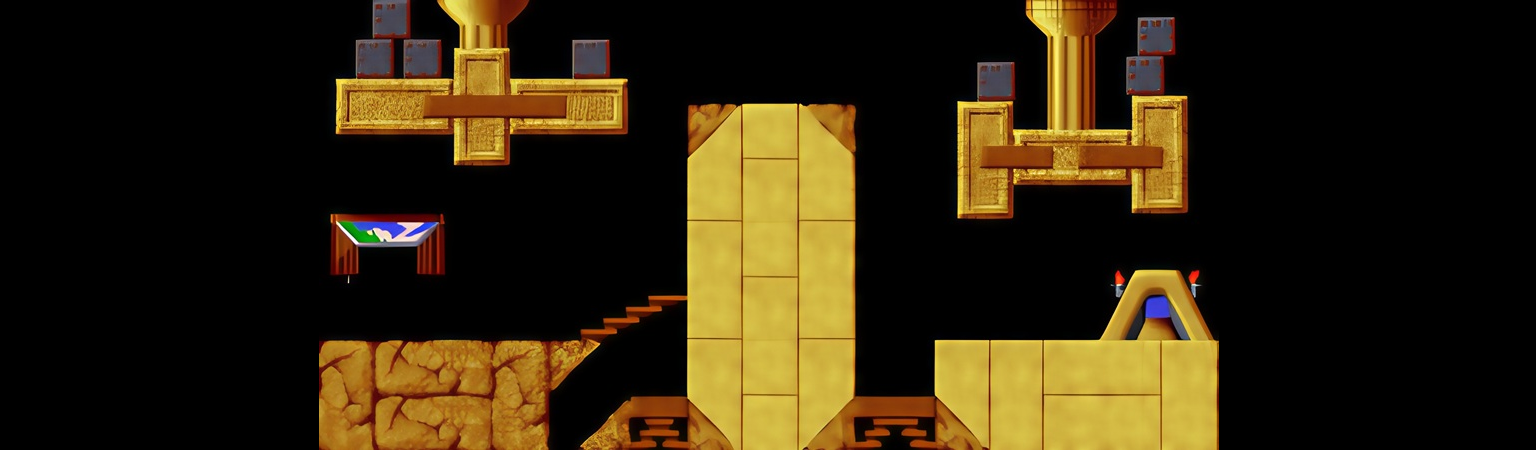
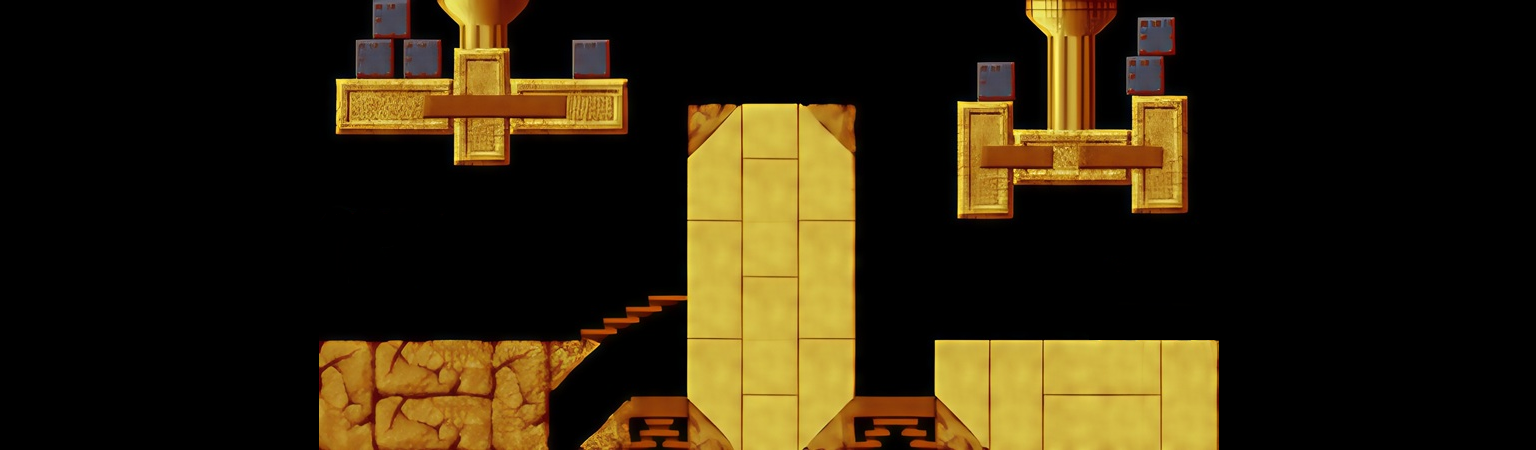
fix mapView

Changed region(s): [[0.1875, 0.4667, 0.3125, 0.6222], [0.7188, 0.5911, 0.8125, 0.7778]]

diff --git a/app/src/main/java/Proyecto/games/Lemmings_game/View/MinimapView.java b/app/src/main/java/Proyecto/games/Lemmings_game/View/MinimapView.java
@@ -12,20 +12,24 @@ public class MinimapView {
     int x, y, width, height;
     BufferedImage minimapImage;
 
-    public MinimapView(int x, int y, int width, int height, int level) {
-        this.x = x;
-        this.y = y;
-        this.width = width;
-        this.height = height;
-
+    public MinimapView(int baseX, int baseY, int baseWidth, int baseHeight, int level, int screenWidth, int screenHeight) {
+        // Resolución base (la que usaste para calcular 480, 480, 250, 100)
+        int baseScreenWidth = 1366;
+        int baseScreenHeight = 768;
+    
+        // Escalar proporcionalmente
+        this.x = baseX * screenWidth / baseScreenWidth;
+        this.y = baseY * screenHeight / baseScreenHeight;
+        this.width = baseWidth * screenWidth / baseScreenWidth;
+        this.height = baseHeight * screenHeight / baseScreenHeight;
+    
         try {
             minimapImage = ImageIO.read(getClass().getResourceAsStream("/map" + (4 + level) + ".png"));
         } catch (IOException e) {
             e.printStackTrace();
         }
-
-        //this.minimapImage = minimapImage;
     }
+    
 
     public void drawMinimap(Graphics2D g) {
         // Marco marrón oscuro para el minimapa

diff --git a/app/src/main/java/Proyecto/games/Lemmings_game/Lemmings.java b/app/src/main/java/Proyecto/games/Lemmings_game/Lemmings.java
@@ -26,7 +26,7 @@ public class Lemmings extends JGame {
 
     ButtonController buttonController;
 
-    private int currentLevel = 0;
+    private int currentLevel = 2;
 
     private List<MapModel> mapModels  = new ArrayList<>();
     private List<MapView> mapViews = new ArrayList<>();
@@ -65,8 +65,8 @@ public class Lemmings extends JGame {
             MapModel thirdLevelMapModel = new MapModel(3,650,350,0);
 
             MapView firstLevelMapView = new MapView(firstLevelMapModel, new SpawnerView(690, 70), new ExitView(1020, 300), 0, 0);
-            MapView secondLevelMapView = new MapView(secondLevelMapModel, new SpawnerView(230, 150), new ExitView(230, 150), 430, 0);
-            MapView thirdLevelMapView = new MapView(thirdLevelMapModel, new SpawnerView(230, 150), new ExitView(230, 150), 430, 0);
+            MapView secondLevelMapView = new MapView(secondLevelMapModel, new SpawnerView(230, 150), new ExitView(230, 150), 0, 0);
+            MapView thirdLevelMapView = new MapView(thirdLevelMapModel, new SpawnerView(410, 200), new ExitView(1050, 260), 430, 0);
 
             //Agrego los modelos
             mapModels.add(firstLevelMapModel);

diff --git a/app/src/main/java/Proyecto/games/Lemmings_game/View/LevelView.java b/app/src/main/java/Proyecto/games/Lemmings_game/View/LevelView.java
@@ -21,6 +21,15 @@ public class LevelView {
     private int camX;
     private int camY;
 
+    int screenWidth = 1366;
+    int screenHeight = 768;
+    
+    // Estos son los valores fijos que usabas antes
+    int baseX = 850;
+    int baseY = 600;
+    int baseWidth = 250;
+    int baseHeight = 100;
+
     public LevelView(LevelModel model, MapView mapView, Stock stock) {
         this.mapView = mapView;
         this.model = model;
@@ -39,7 +48,7 @@ public class LevelView {
         buttonFly = new Buttons("Volar | " + stock.getQuantityAbility(Ability.CLIMB), 0.46f, startY, buttonWidth, buttonHeight);
 
         // El minimapa queda igual si sigue con valores absolutos (o lo podés escalar también)
-        minimapView = new MinimapView(480, 480, 250, 100, model.getNumLevel());
+        minimapView = new MinimapView(baseX, baseY, baseWidth, baseHeight, model.getNumLevel(), screenWidth, screenHeight);
     }
 
 
